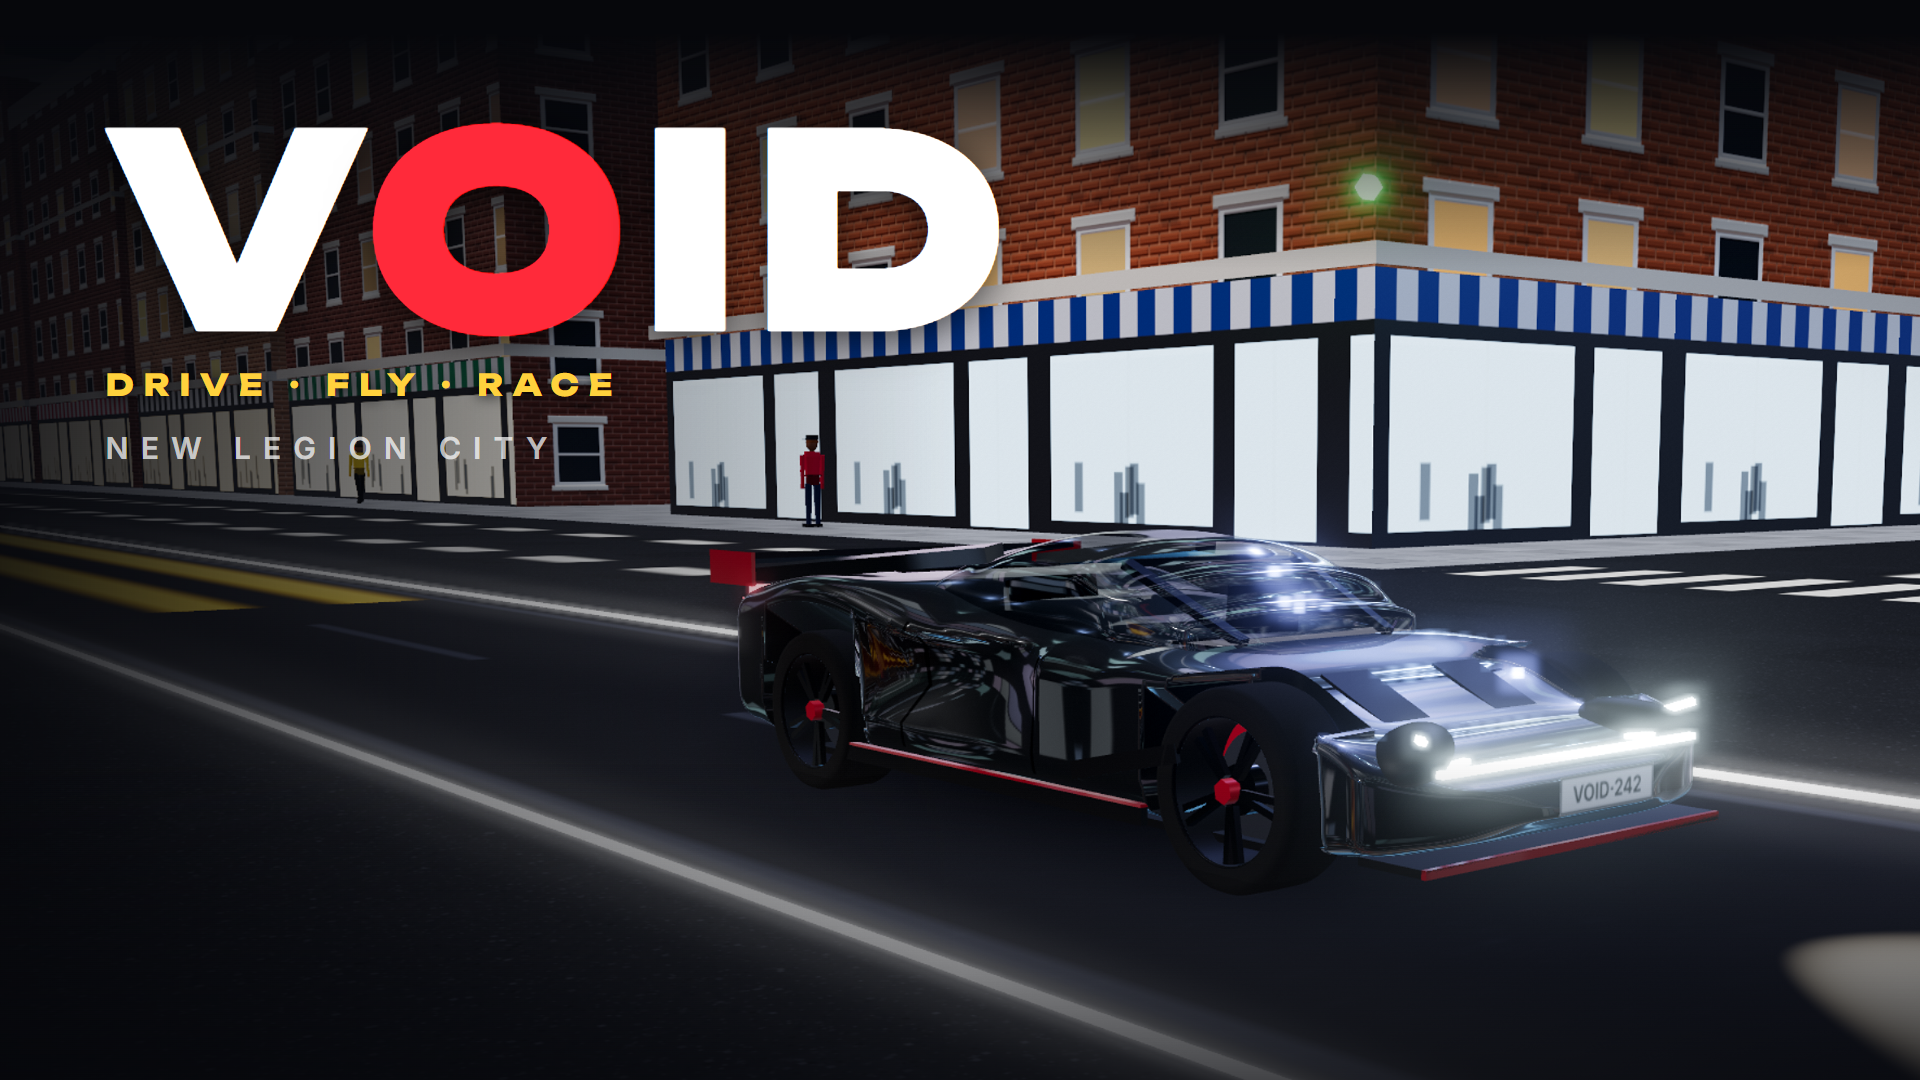
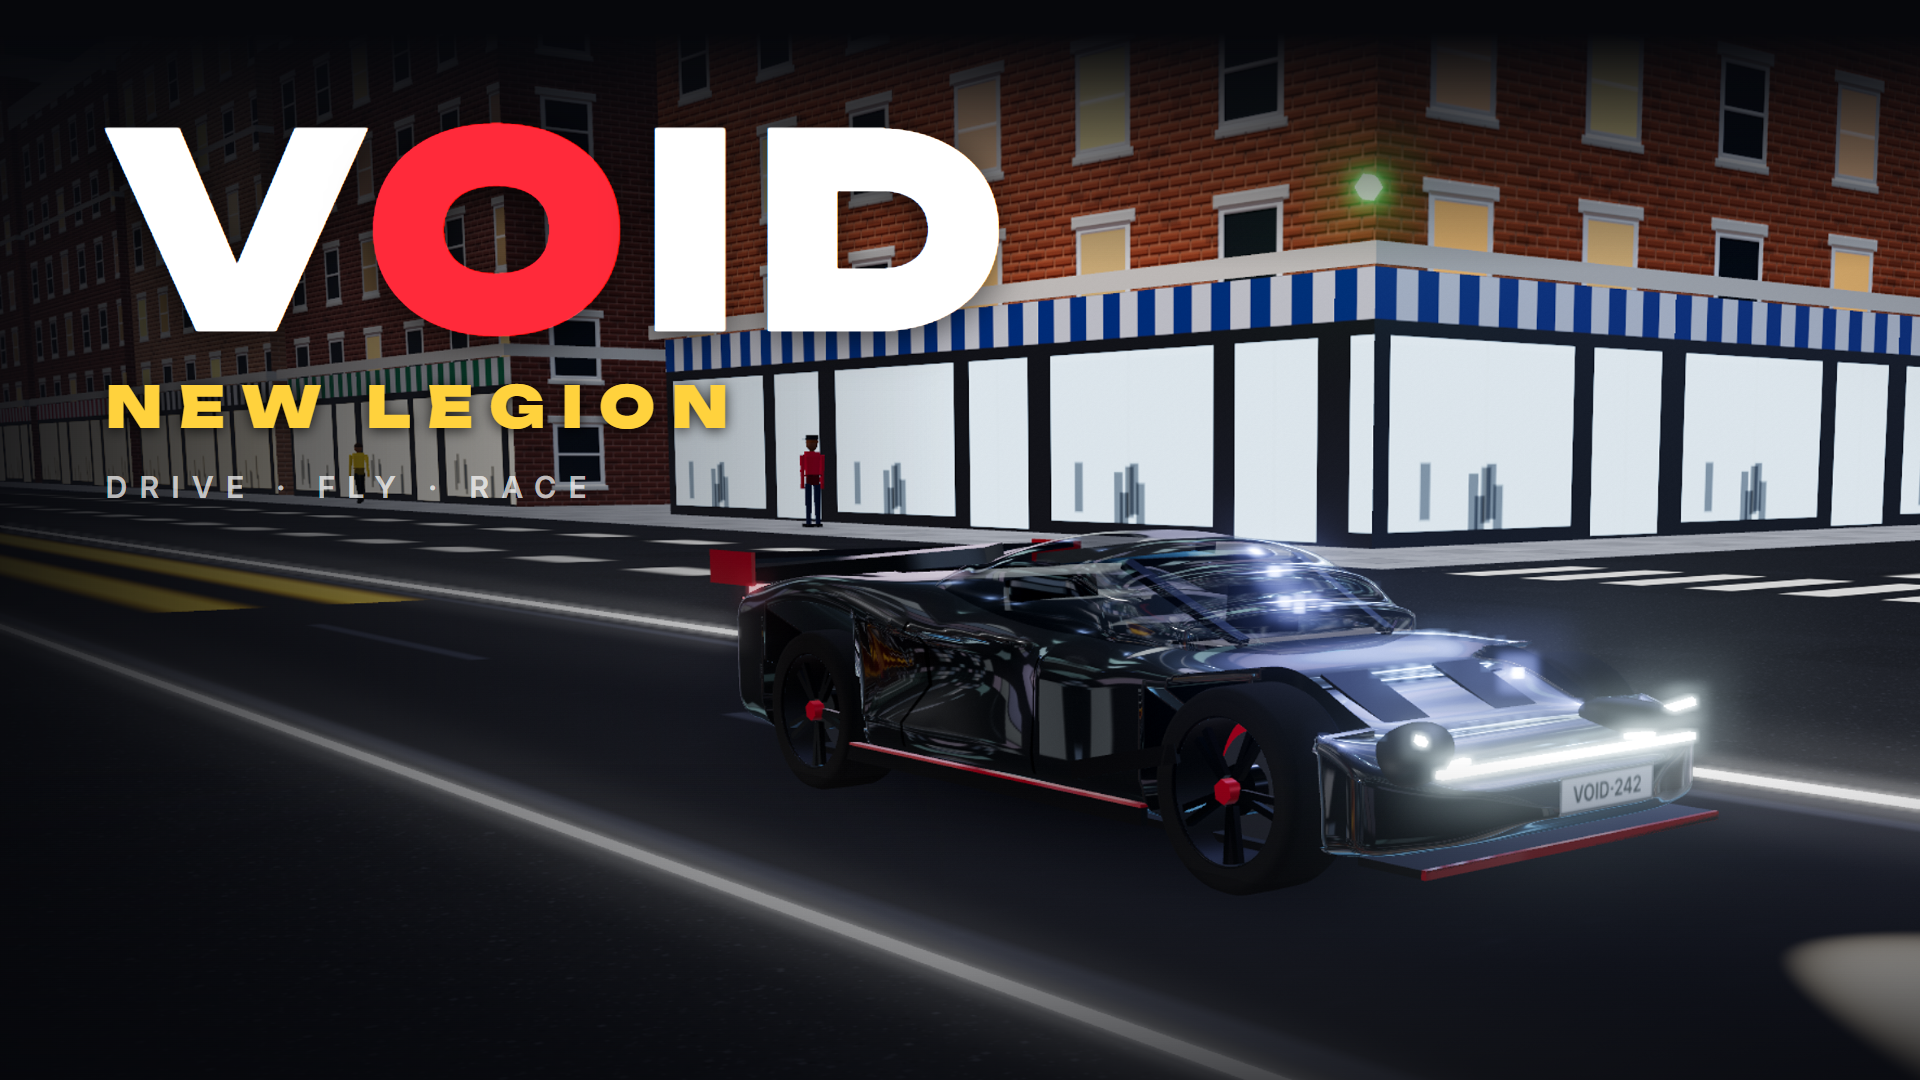
Portal title VOID: New Legion; covers say NEW LEGION

Changed region(s): [[0.0312, 0.3361, 0.4062, 0.4583]]

diff --git a/tools/portal/covers/cover.html b/tools/portal/covers/cover.html
@@ -9,10 +9,10 @@
   .t { position: absolute; color: #fff; font-family: Unbounded, sans-serif; }
   .t h1 { margin: 0; font-weight: 900; letter-spacing: .04em; line-height: .9; text-shadow: 0 6px 40px rgba(0,0,0,.7); }
   .t h1 i { font-style: normal; color: #ff2a3a; }
-  .t p { margin: .5em 0 0; font-weight: 800; letter-spacing: .32em; color: #ffd23d; text-shadow: 0 2px 14px rgba(0,0,0,.8); }
+  .t p { margin: .35em 0 0; font-size: 1.9em; font-weight: 900; letter-spacing: .28em; color: #ffd23d; text-shadow: 0 2px 14px rgba(0,0,0,.8); }
   .t small { display: block; margin-top: .9em; font: 600 1em Inter, sans-serif; letter-spacing: .4em; color: rgba(255,255,255,.7); }
 </style></head>
-<body><div id="c"><img id="i" src="hero.png"><div class="fade" id="f"></div><div class="t" id="t"><h1>V<i>O</i>ID</h1><p>DRIVE · FLY · RACE</p><small>NEW LEGION CITY</small></div></div>
+<body><div id="c"><img id="i" src="hero.png"><div class="fade" id="f"></div><div class="t" id="t"><h1>V<i>O</i>ID</h1><p>NEW LEGION</p><small>DRIVE · FLY · RACE</small></div></div>
 <script>
 // cover.html?w=1920&h=1080&cx=.62&cy=.62&car=.5  -> the car (52%,50% of hero.png, 41% of its width) placed at (cx,cy), car width = car * min(w,h)... title layout per shape
 const q = new URLSearchParams(location.search), W = +q.get("w"), H = +q.get("h");

diff --git a/tools/portal/build.py b/tools/portal/build.py
@@ -77,6 +77,7 @@ def font_files():
 
 def page(portal, stamp):
     html = open(os.path.join(ROOT, "templates", "index.html"), encoding="utf-8").read()
+    html = html.replace("<title>VOID</title>", "<title>VOID: New Legion</title>", 1)
     html = html.replace("{{ v }}", stamp).replace('"/static/', '"static/')
     html = re.sub(r'\s*<link rel="preconnect"[^>]*>(<link rel="preconnect"[^>]*>)?', "", html)
     html = re.sub(r'<link href="https://fonts\.googleapis\.com[^>]*>', '<link rel="stylesheet" href="vendor/fonts/fonts.css">', html)
